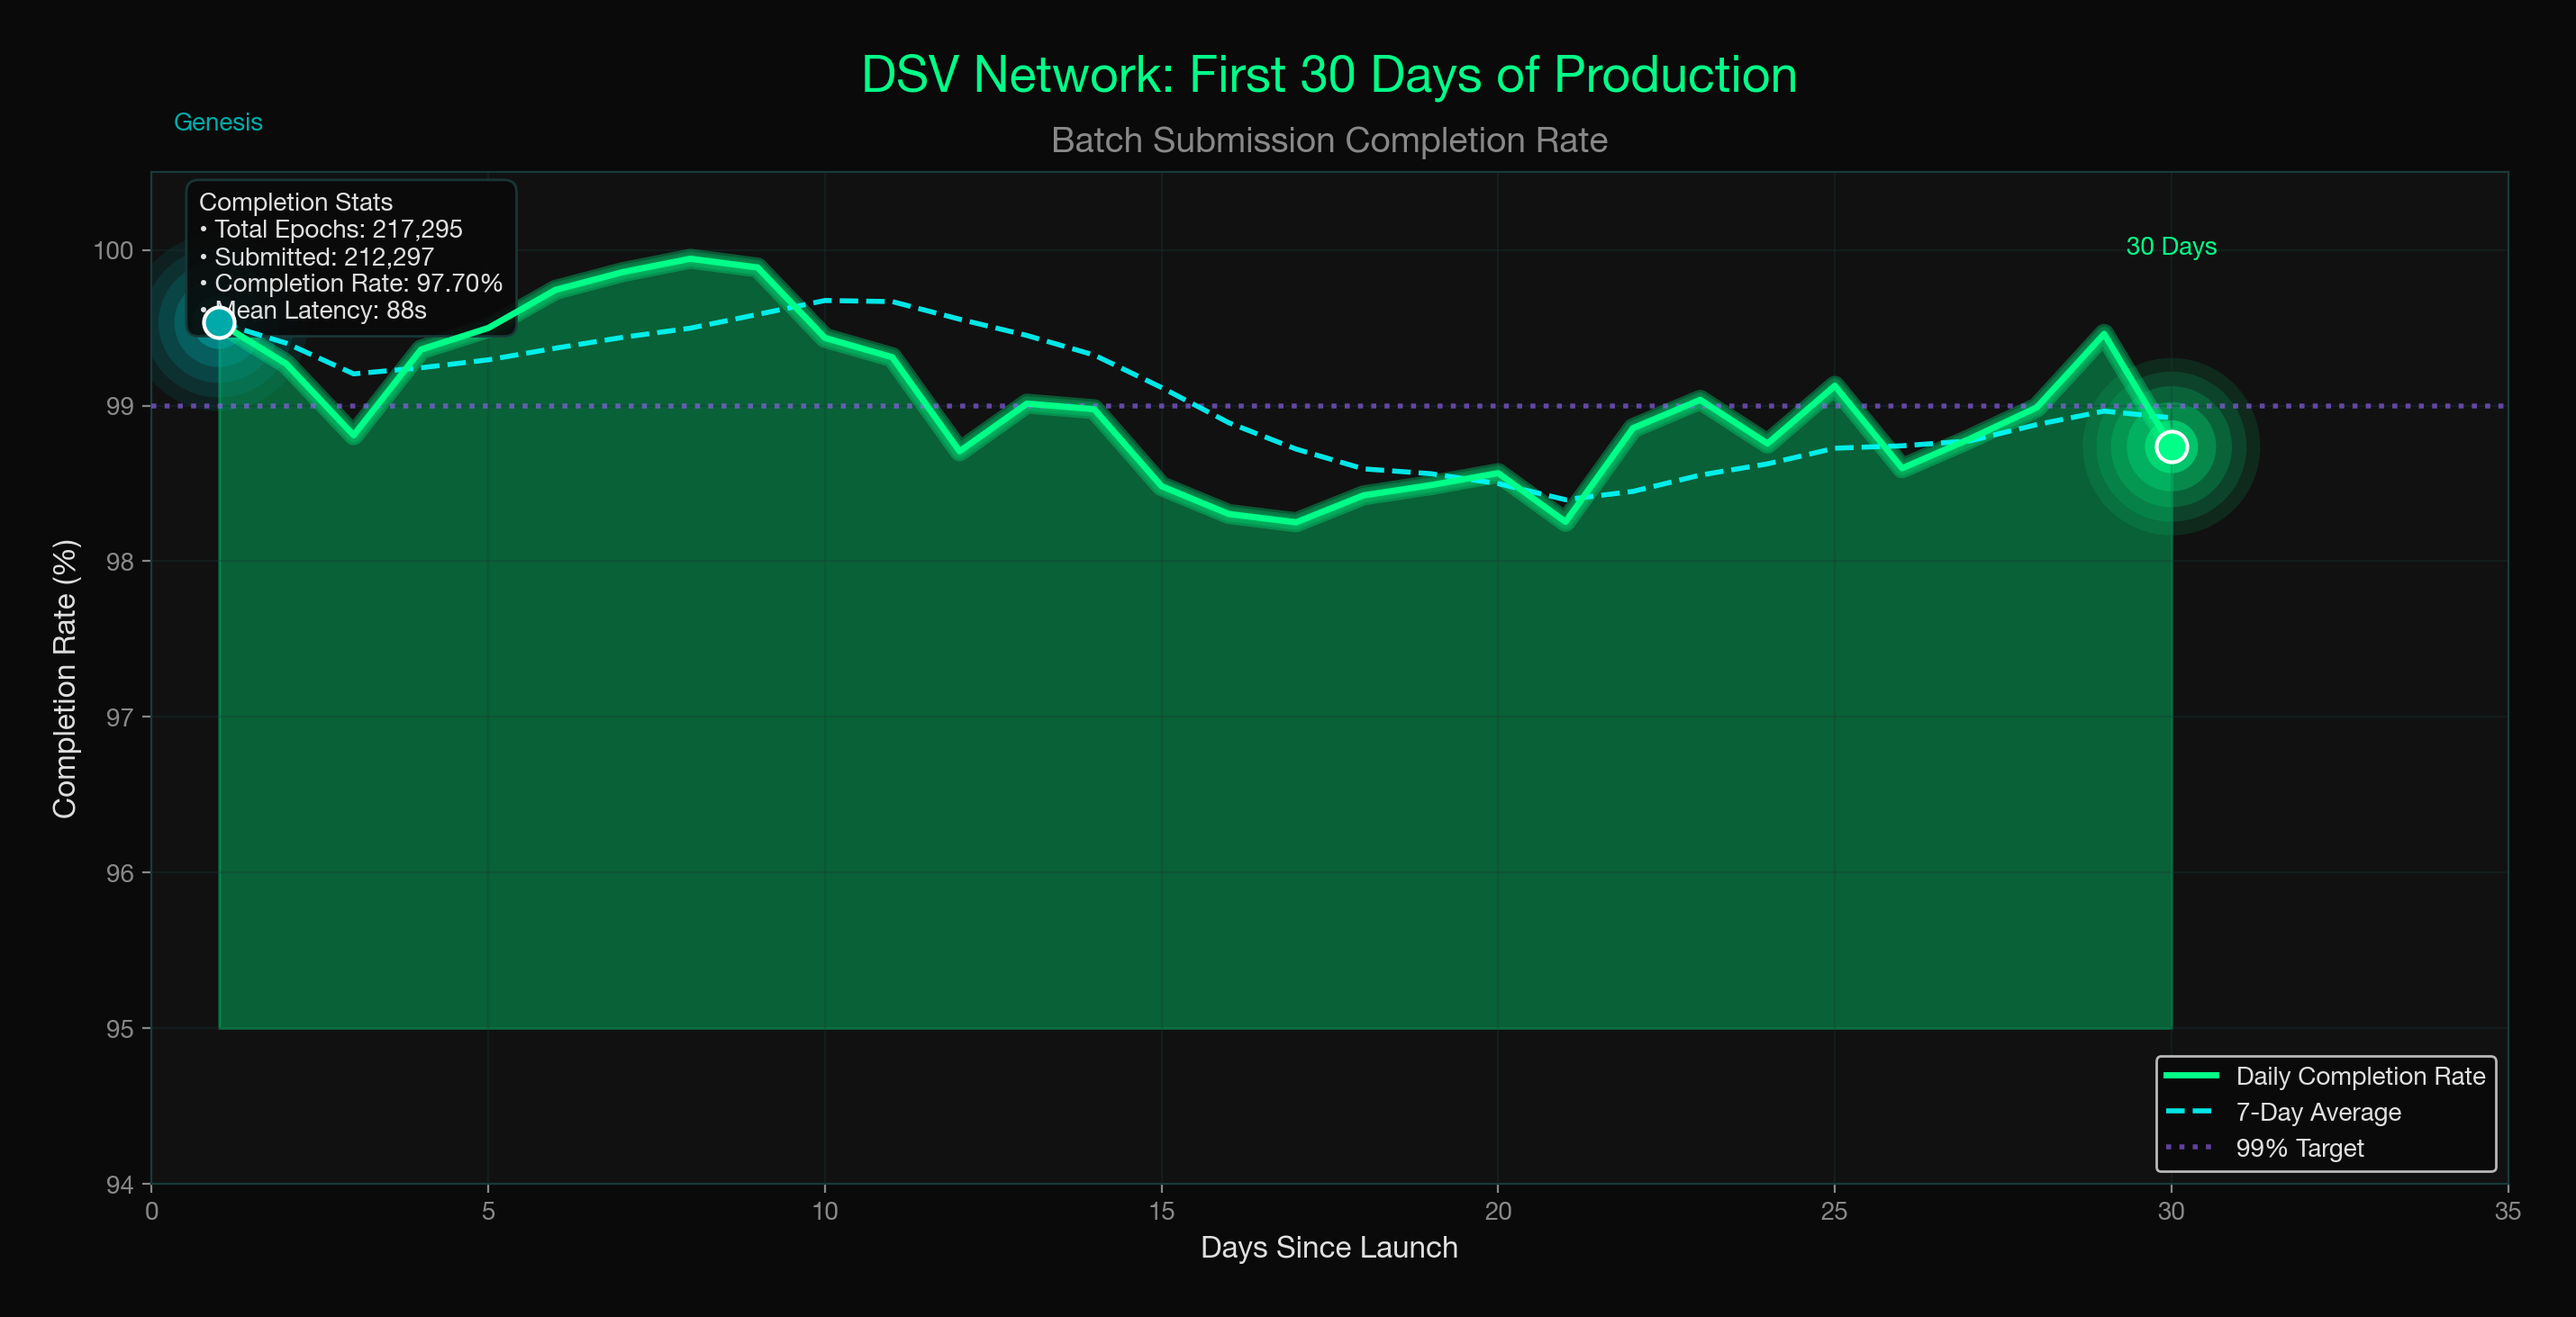
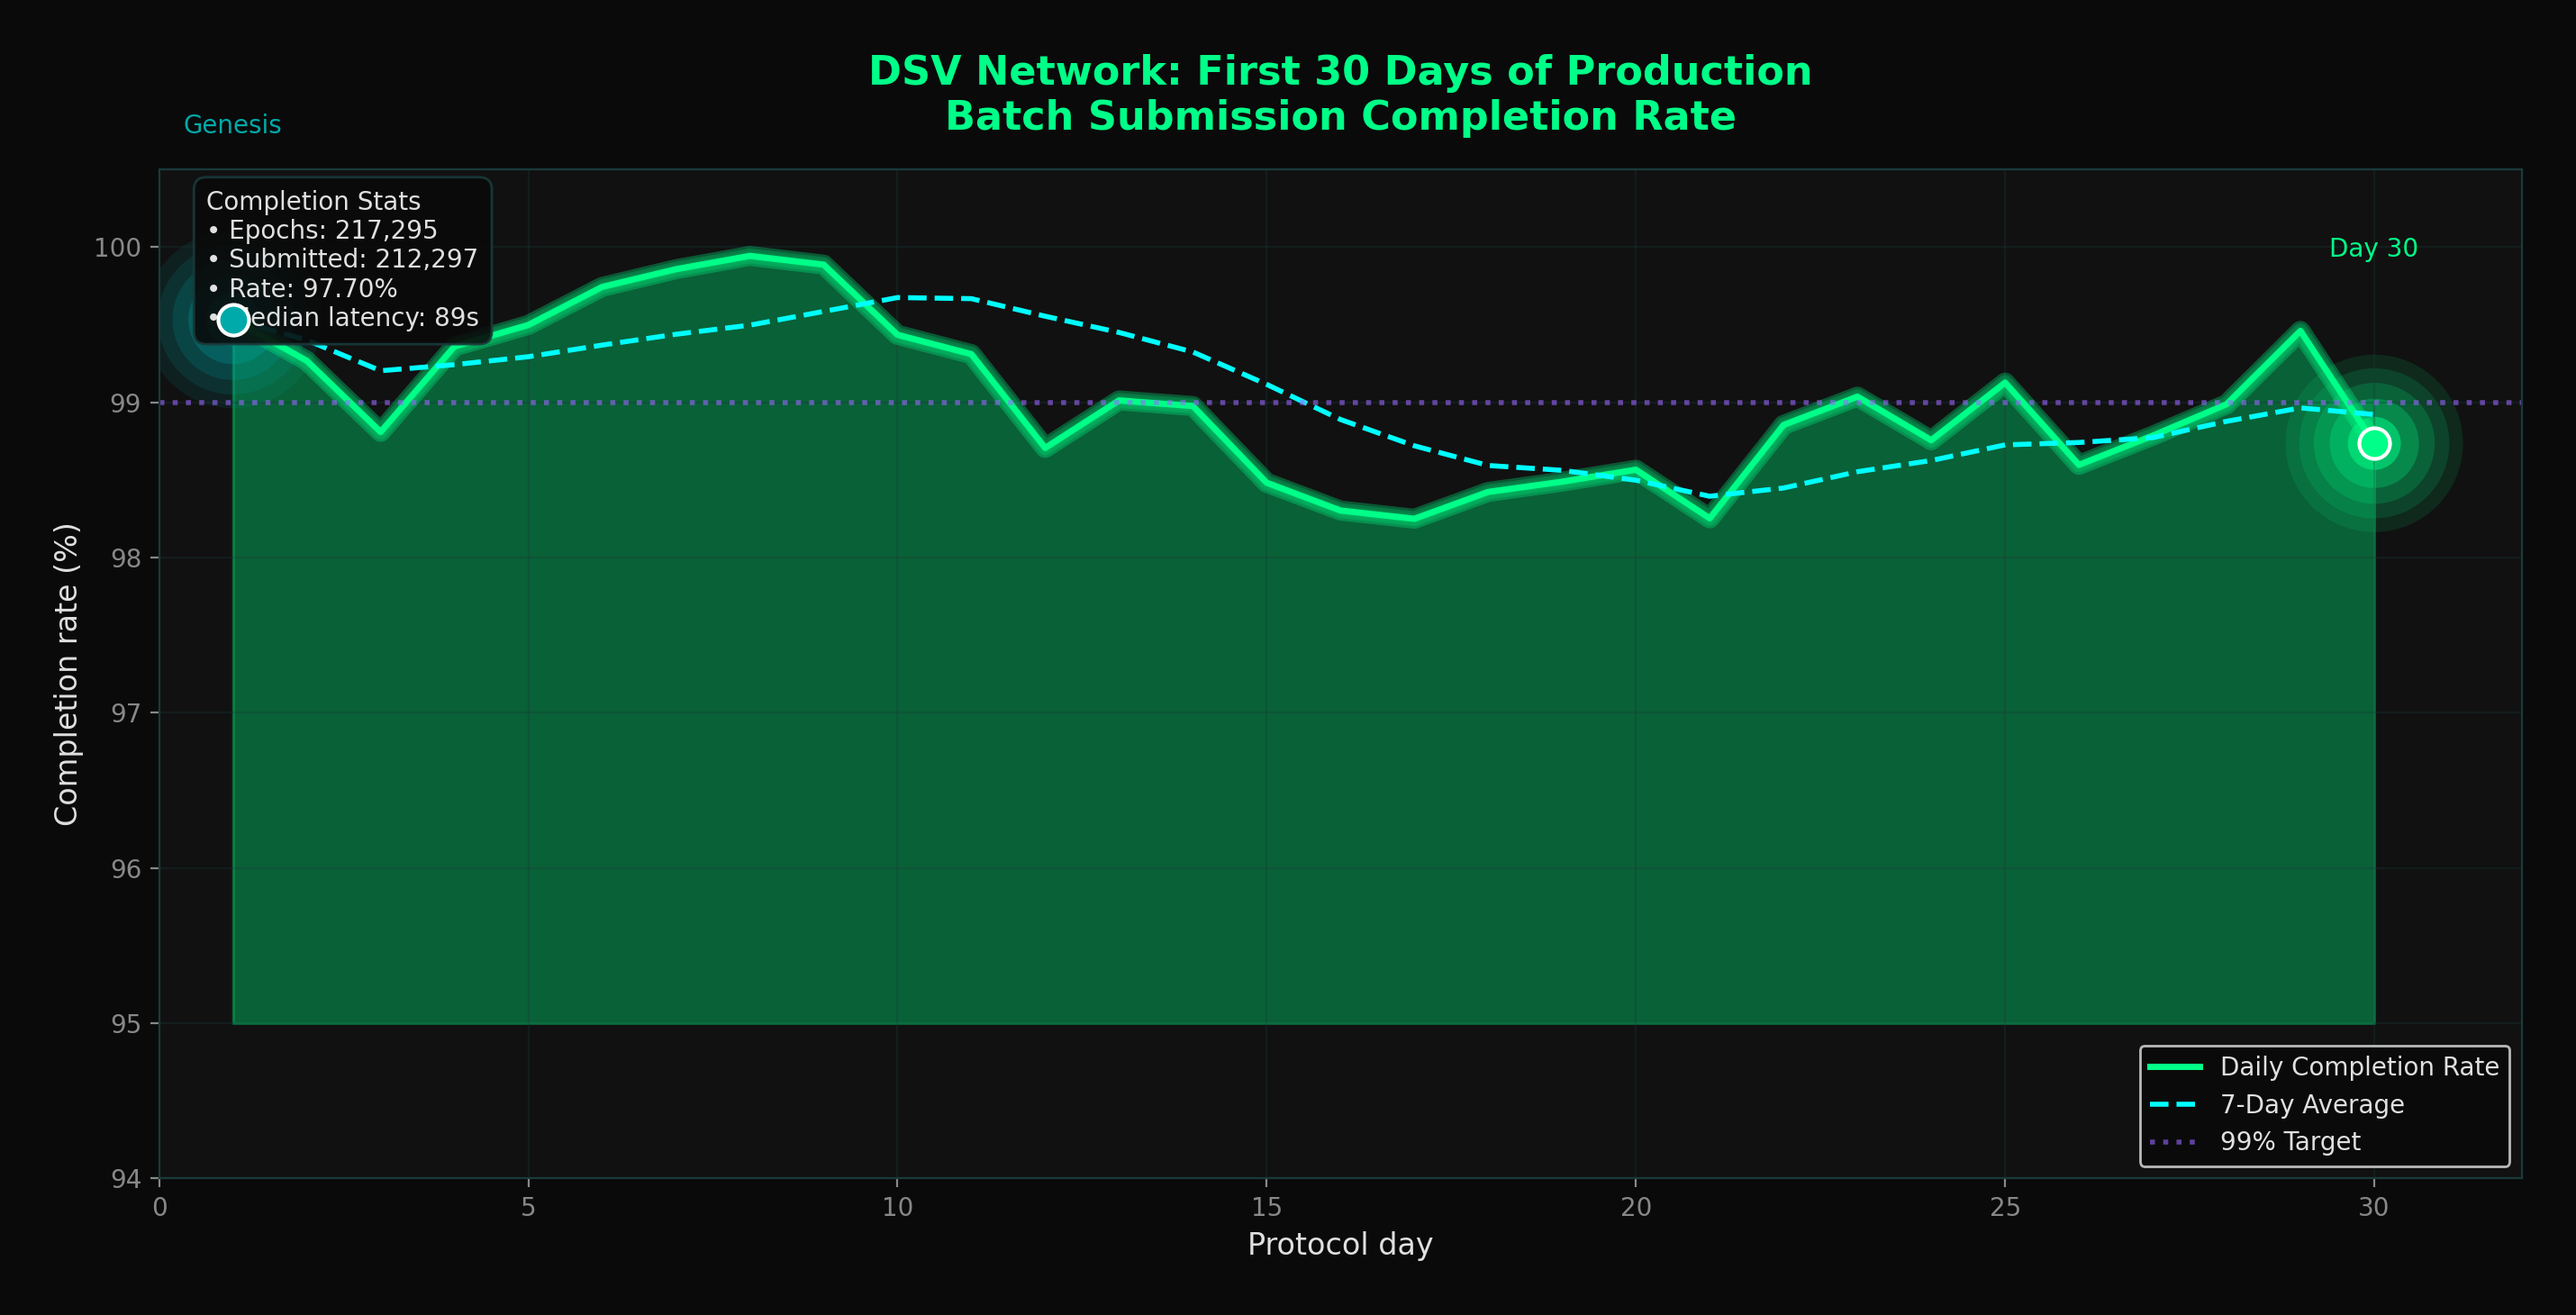
docs: update stability and scale documentation for BDS mainnet
- Revised the operational signals section to reflect 60 protocol days of DSV validator activity, including updated metrics and completion rates.
- Added new figures and tables for days 31-60, highlighting performance metrics and latency comparisons.
- Introduced a new image for the health timeline of days 31-60 to enhance visual representation of network performance.
- Clarified the reproducibility of analysis artifacts and provided links to relevant reports.

diff --git a/docs/dsv-mainnet/stability-and-scale.md b/docs/dsv-mainnet/stability-and-scale.md
@@ -5,98 +5,139 @@ title: Stability and Scale
 
 # Stability and Scale
 
-This page presents operational signals from the live BDS mainnet market. All figures are derived from on-chain events, copied epoch tallies, or direct measurement of the production network.
+This page presents operational signals from the live BDS mainnet market. Figures are derived from on-chain events on Powerloom L2 (chain 7869) unless noted otherwise.
 
-## Network at a Glance
-
-The BDS mainnet market has been running on Ethereum mainnet for **58 days** (as of this writing). The measurement window below covers the **first 30 days** of production operation.
-
-![DSV Network Health Timeline](/images/bds-agentic-workflow/dsv-mainnet-operations/dsv_network_health_timeline.png)
-
-*Figure 1: Daily batch submission completion rate over the first 30 days of production. The network maintained 97.70% completion across 217,295 total epochs.*
-
-### Key Production Metrics
-
-| Metric | Value | Source |
-|--------|-------|--------|
-| Total epochs assigned | 217,295 | On-chain priority assignments (Day 1-30) |
-| Epochs with submissions | 212,297 | Snapshot batch submitted events |
-| Completion rate | **97.70%** | Derived from above |
-| Missed epochs | 4,998 | Gaps in submission coverage |
-| Median end-to-end latency | **89 seconds** | Priority assignment to on-chain finalization |
-| Mean latency | 88 seconds | Same measurement window |
-| P95 latency | 138 seconds | Tail latency measurement |
-| Full steady-state days | 26 of 30 | Days at 7,200 epoch cadence |
-
-The 2.3% gap in coverage clustered around brief restart windows rather than being evenly distributed. Once a validator commits to submitting a batch, it completes 99.01% of the time.
+**Reproducibility:** Committed analysis artifacts and reproduction commands are in the [`dsv-validator-activity` reports tree](https://github.com/powerloom/dsv-validator-activity/tree/main/reports) (`days-1-30/`, `days-31-60/`, `combined-days-1-60/summary.json`). Raw log exports are not committed; rerun the scripts with an archive RPC to verify.
 
 ---
 
-## Validator Performance
+## Network at a Glance (60 protocol days)
 
-Six validator nodes maintained 22 or more consecutive days of operation during the measurement window.
+BDS mainnet has operated through **60 protocol days** of DSV validator activity (two consecutive 30-day windows). Combined on-chain epoch coverage:
+
+| Metric | Days 1–30 | Days 31–60 | Combined 1–60 |
+|--------|----------:|----------:|----------------:|
+| Epochs assigned | 217,295 | 215,226 | **432,521** |
+| Epochs with submissions | 212,297 | 210,430 | **422,727** |
+| Completion rate | 97.70% | 97.77% | **97.74%** |
+| Missed epochs | 4,998 (2.30%) | 4,796 (2.23%) | 9,794 (2.26%) |
+| Median latency | 89s | 97s | — |
+| P95 latency | 138s | 155s | — |
+
+The second window matched the first on coverage (slightly fewer missed epochs) with **higher end-to-end latency** (median +8s, P95 +17s). Both windows show the same pattern: once a validator submits, batch completion stays above 99%.
+
+![DSV Network Health Timeline — Days 1–30](/images/bds-agentic-workflow/dsv-mainnet-operations/dsv_network_health_timeline.png)
+
+*Figure 1: Daily batch submission completion rate, protocol days 1–30 (217,295 epochs assigned).*
+
+![DSV Network Health Timeline — Days 31–60](/images/bds-agentic-workflow/dsv-mainnet-operations/dsv_network_health_timeline_days_31_60.png)
+
+*Figure 2: Daily batch submission completion rate, protocol days 31–60 (215,226 epochs assigned). 28 of 30 days at full 7,200-epoch cadence; days 49–50 were shorter L2 windows.*
+
+---
+
+## First 30 days (baseline window)
+
+Detailed figures for protocol days 1–30 (historical baseline for comparisons and charts):
+
+| Metric | Value |
+|--------|------:|
+| Total epochs assigned | 217,295 |
+| Epochs with submissions | 212,297 |
+| Completion rate | **97.70%** |
+| Median end-to-end latency | **89 seconds** |
+| P95 latency | 138 seconds |
+| Full steady-state days (7,200 priorities/day) | 26 of 30 |
+
+The 2.3% coverage gap clustered around brief restart windows rather than uniform random loss.
+
+### Validator performance (days 1–30)
+
+Six validator nodes maintained 22+ consecutive active days:
+
+| Node | Active Days | Completion Rate | Total Submitted |
+|------|-------------|-----------------|----------------:|
+| Node 1 | 30/30 | 99.87% | 29,670 |
+| Node 5 | 30/30 | 99.90% | 49,717 |
+| Node 4 | 29/30 | 99.20% | 27,252 |
+| Node 3 | 28/30 | 97.42% | 33,827 |
+| Node 10 | 26/30 | 98.01% | 27,690 |
+| Node 11 | 22/30 | 98.79% | 25,319 |
+
+Three additional transient nodes participated during operator testing and rotation.
 
 ![Validator Network Constellation](/images/bds-agentic-workflow/dsv-mainnet-operations/dsv_validator_constellation.png)
 
-*Figure 2: Validator node constellation showing completion rates and active days. Node size indicates total submissions; color indicates reliability tier.*
+*Figure 3: Validator constellation (days 1–30 window).*
 
-### Stable Validators (22+ days active)
+---
+
+## Days 31–60
+
+The second production month is shown in **Figure 2** above. Daily completion held in the same band as days 1–30; batch-level completion (submit → on-chain complete) averaged **99.10%** across the window.
+
+| Metric | Value |
+|--------|------:|
+| Epochs assigned | 215,226 |
+| Epochs with submissions | 210,430 |
+| Completion rate | **97.77%** |
+| Median latency | **97 seconds** |
+| P95 latency | 155 seconds |
+| Days at 7,200 priorities/day | 28 of 30 |
+| Batch submit → complete (log totals) | 208,550 / 210,437 (**99.10%**) |
+
+**Cadence exceptions:** days 49 (6,490) and 50 (7,136) priorities — shorter L2 day windows, same class of anomaly as day 1 / day 14 in the first window.
+
+### Validator performance (days 31–60)
+
+Fleet consolidated to five nodes at full-month uptime plus one transient:
 
 | Node | Active Days | Completion Rate | Total Submitted |
-|------|-------------|-----------------|-----------------|
-| Node 1 | 30/30 (100%) | 99.87% | 29,670 |
-| Node 5 | 30/30 (100%) | 99.90% | 49,717 |
-| Node 4 | 29/30 (96.7%) | 99.20% | 27,252 |
-| Node 3 | 28/30 (93.3%) | 97.42% | 33,827 |
-| Node 10 | 26/30 (86.7%) | 98.01% | 27,690 |
-| Node 11 | 22/30 (73.3%) | 98.79% | 25,319 |
+|------|-------------|-----------------|----------------:|
+| Node 5 | 30/30 | 99.99% | 70,070 |
+| Node 4 | 30/30 | 99.49% | 45,434 |
+| Node 1 | 30/30 | 99.92% | 39,829 |
+| Node 3 | 30/30 | 97.57% | 30,472 |
+| Node 11 | 28/30 | 96.27% | 23,411 |
+| Node 9 | 2/30 | 99.92% | 1,221 |
 
-*Three additional transient nodes participated for shorter periods during operator testing and rotation.*
-
-Across the six stable long-running nodes, the aggregate completion rate was **98.95% over 193,475 total submissions**.
+Node 5 carried the largest submission share in this window (+41% vs its days 1–30 total). Nodes 2, 7, and 10 did not appear in the 31–60 summary (rotation / decommission).
 
 ---
 
 ## Submission Latency
 
-Latency is measured from priority assignment (validator selected for epoch) to on-chain finalization (batch submission confirmed).
+Latency is measured from priority assignment (`PrioritiesAssigned`) to on-chain batch submission (`SnapshotBatchSubmitted`).
 
 ![Batch Submission Latency](/images/bds-agentic-workflow/dsv-mainnet-operations/dsv_latency_heatmap.png)
 
-*Figure 3: Latency distribution by hour of day. The density plot shows 212,297 submissions with median 89s, mean 88s, and P95 138s.*
+*Figure 4: Latency distribution (days 1–30 chart). Median 89s → 97s in days 31–60; P95 138s → 155s.*
 
-The heatmap reveals consistent latency patterns across all hours, with no significant degradation during any specific time window. This indicates stable validator infrastructure and reliable RPC connectivity throughout the measurement period.
+Patterns remain consistent across hours of day in the first window; the second window shows a modest shift toward higher absolute latency without a coverage regression.
 
 ---
 
 ## Epoch Coverage Pattern
 
-The coverage matrix shows submission activity across all epochs in the 30-day window.
-
 ![Epoch Coverage Matrix](/images/bds-agentic-workflow/dsv-mainnet-operations/dsv_epoch_coverage_matrix.png)
 
-*Figure 4: Day-by-epoch-block coverage matrix. Bright green indicates high submission counts; dark cells indicate gaps. The matrix shows sustained coverage with isolated gaps clustering around operational transitions.*
-
-The matrix demonstrates that gaps were not random failures but clustered around specific operational events (node restarts, configuration updates). The network recovered full coverage within hours of any interruption.
+*Figure 5: Coverage matrix (days 1–30). Gaps cluster at operational transitions, not random scatter.*
 
 ---
 
 ## Snapshotter Participation
 
-A separate measurement of 1,811 epochs (April 17–24) shows the snapshotter layer participation:
+Separate measurement of 1,811 epochs (April 17–24) — snapshotter / slot layer (not validator export):
 
 | Metric | Value |
 |--------|-------|
 | Unique eligible nodes per day | 2,970 – 3,047 |
 | Median eligible nodes per epoch | 305 |
 | Active validators per epoch | 3–5 (median 4) |
-| Minimum validators observed | 3 (every measured epoch) |
 
 ![Snapshotter Slot Activity](/images/bds-agentic-workflow/dsv-mainnet-operations/dsv_slot_distribution_radial.png)
 
-*Figure 5: Radial distribution of slot activity from sampled epochs. The visualization shows 3,078 total slots with activity levels categorized by submission count.*
-
-The slot distribution shows broad participation across the slot ID space (0–8191), with no concentration that would indicate centralization or collusion patterns.
+*Figure 6: Slot activity sample (3,078 slots).*
 
 ---
 
@@ -104,43 +145,17 @@ The slot distribution shows broad participation across the slot ID space (0–81
 
 ### Continuous cadence under pressure
 
-BDS mainnet processes one-block epochs on Ethereum mainnet. This creates continuous pressure on transport, aggregation, and finalization rather than allowing activity to concentrate into infrequent batch windows. The 97.70% completion rate across 217K epochs demonstrates sustained operation under this pressure.
-
-### Observable mesh health
-
-The published local-collector setup includes explicit health states:
-
-- `healthy` when both discovery and submission topics have at least 2 peers
-- `degraded` when one side falls below threshold
-- `pruned` when one side has 0 peers
-
-These definitions make mesh health observable rather than assumed. The live measurements show 5 healthy submission-topic peers and 162 total connected peers in sampled collector logs.
+BDS mainnet processes block-aligned epochs on Ethereum mainnet. **432k+ assigned epochs** over 60 protocol days with **97.7%** submission coverage shows sustained operation under continuous pressure.
 
 ### Measurable validator participation
 
-The network shows:
+- **Five stable validators** at full-month uptime in days 31–60
+- **~3,000 eligible snapshotter nodes** per day (separate tally sample)
+- **99%+ batch completion** once a validator commits to submit
 
-- **3 to 5 validators** present per tallied epoch
-- **~3,000 eligible nodes** receiving rewards daily
-- **98.95% aggregate completion** across stable validators
-- **99.01% completion rate** once submission commitment is made
+### Observable mesh health
 
-This provides concrete evidence of multi-validator participation at production scale.
-
----
-
-## Competitive Position
-
-Many data products can show a dashboard. The DSV network can show:
-
-- Published epoch workflow with timing guarantees
-- Market-scoped on-chain finalization
-- Public verification calls for exact finalized CIDs
-- Operator-visible mesh health thresholds
-- Validator-priority-controlled settlement
-- 58 days of sustained production history
-
-That combination is what makes DSV interesting as a production system rather than a theoretical architecture.
+Local-collector health states (`healthy` / `degraded` / `pruned`) and peer counts remain part of the operational story; see deployment docs for collector configuration.
 
 ---
 
@@ -153,12 +168,17 @@ That combination is what makes DSV interesting as a production system rather tha
 
 ## Methodology and Reproducibility
 
-All figures are derived from:
+1. **On-chain export** — `export_validator_activity.py` with archive `POWERLOOM_RPC_URL` (Powerloom L2)
+2. **Epoch participation** — `analyze_epoch_participation.py` → `participation_summary.json`
+3. **Per-node reliability** — `analyze_validator_reliability.py` → `reliability_summary.json`
+4. **Window comparison** — `compare_windows.py` between output directories
+5. **Charts** — `generate_visualizations.py` → `reports/charts/` (e.g. `dsv_network_health_timeline_days_31_60.png`)
 
-1. **On-chain events** on Powerloom mainnet (chain 7869)
-2. **Copied epoch tallies** from `snapshot-activity-tracker-updater` (1,811 epochs)
-3. **Validator activity analysis** from `dsv-validator-activity` scripts (30-day window)
+**Committed artifacts:** [github.com/powerloom/dsv-validator-activity/reports](https://github.com/powerloom/dsv-validator-activity/tree/main/reports) — includes `days-31-60/network_health_daily.csv` and chart PNGs under `reports/charts/`.
 
-Contract addresses and full methodology: [github.com/powerloom/curated-datamarkets](https://github.com/powerloom/curated-datamarkets)
+**Contracts (BDS mainnet):**
 
-Last updated: 2026-04-30
+- ProtocolState: `0x1d0e010Ff11b781CA1dE34BD25a0037203e25E2a`
+- DataMarket: `0x26c44e5CcEB7Fe69Cffc933838CF40286b2dc01a`
+
+Last updated: 2026-05-19
